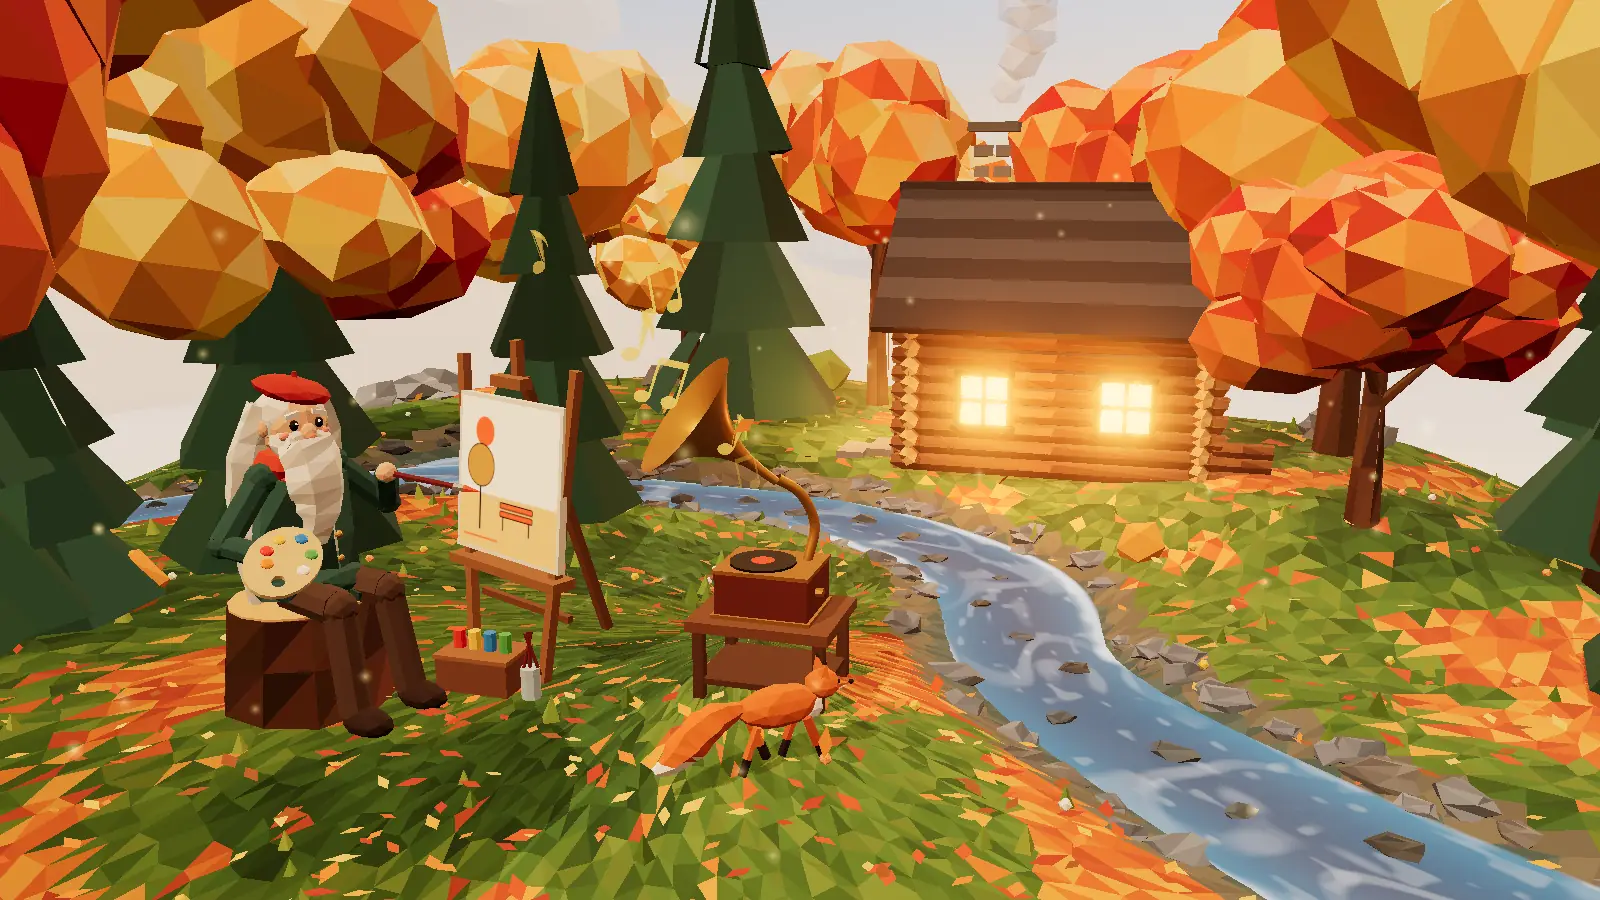
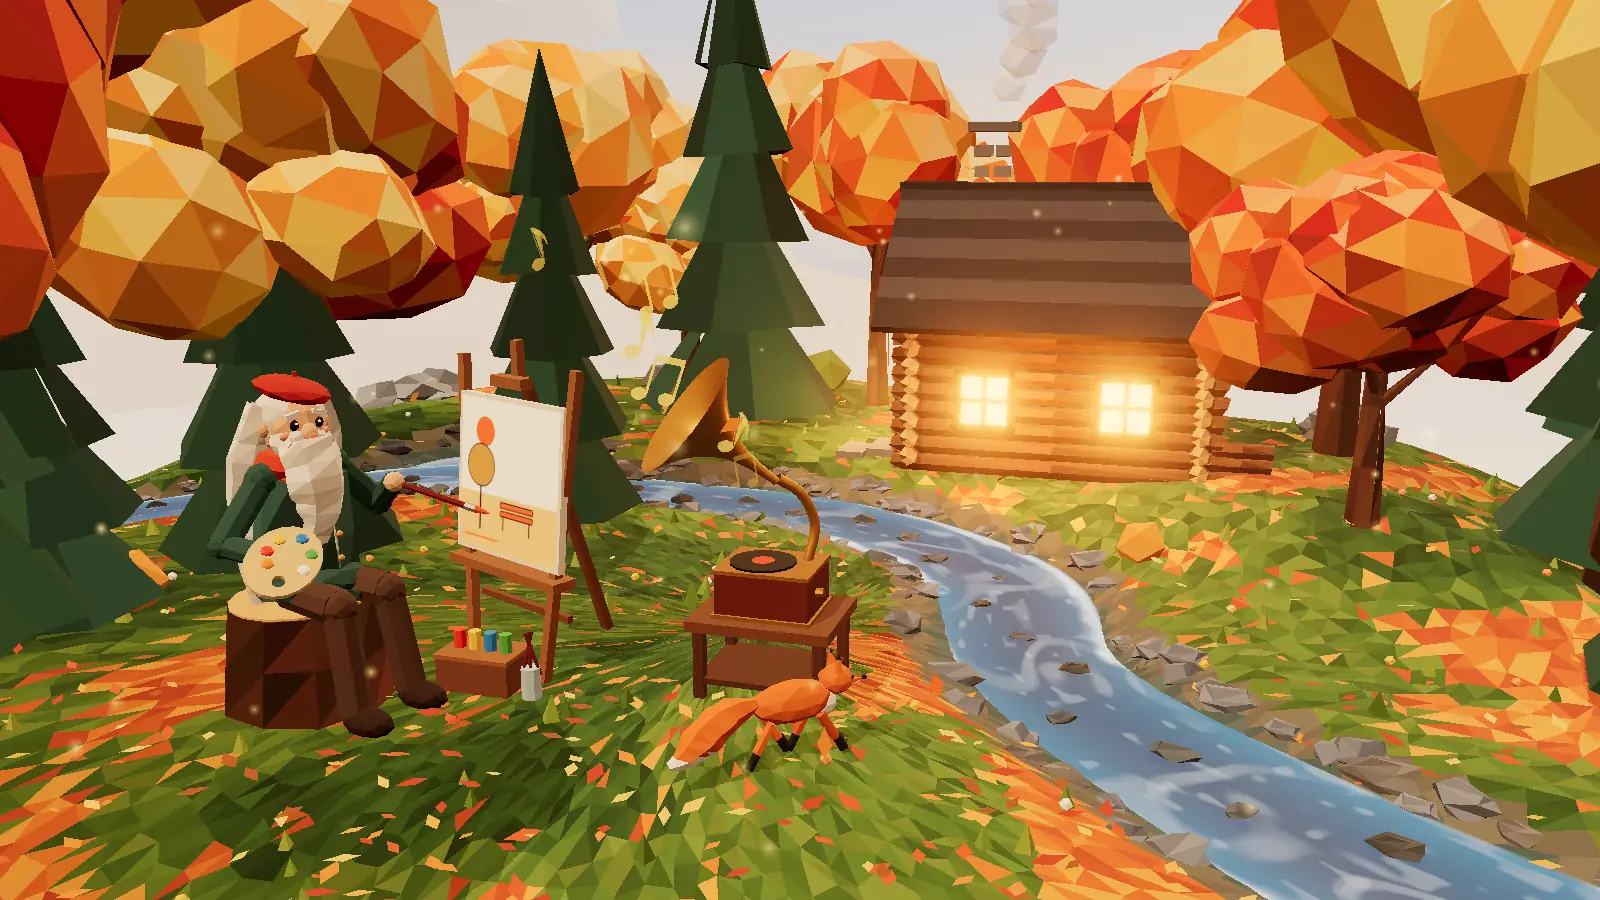
Dream: lower resting brush arm, phone zoom control under the header, re-rendered posters

diff --git a/components/dream/characters.tsx b/components/dream/characters.tsx
@@ -76,7 +76,7 @@ export function Painter({ working, canvasWorld, canvasRight, canvasUp, canvasNor
     const ax = Math.sin(stroke) * 0.3 + Math.sin(t * 0.37) * 0.12, ay = Math.sin(t * 0.61) * 0.22 + Math.sin(stroke * 2) * 0.04;
     const paintPt = V().copy(canvasWorld).addScaledVector(canvasRight, ax).addScaledVector(canvasUp, ay).addScaledVector(canvasNormal, 0.02 + lift);
     // at rest the brush hand sits on his knee, brush tip pointing up and out
-    const rest = V(0.42 + Math.sin(t * 0.5) * 0.02, 1.25, 0.95);
+    const rest = V(0.55 + Math.sin(t * 0.5) * 0.02, 1.08, 0.9);
     g.updateWorldMatrix(true, false); const tip = rest.lerp(g.worldToLocal(paintPt), w);
     // hand sits 0.5 back from the brush tip, along the line from the shoulder
     tmp.dir.subVectors(tip, SH_B).normalize(); const handP = V().copy(tip).addScaledVector(tmp.dir, -0.6);

diff --git a/app/fox.css b/app/fox.css
@@ -211,4 +211,4 @@
 .fx-zoom span{font:800 12px var(--f-nunito);letter-spacing:.08em;text-transform:uppercase;color:var(--muted);min-width:52px;text-align:center}
 @keyframes fxFade{from{opacity:0}}
 .fx-clean .fx-zoom,.fx-og .fx-zoom{display:none}
-@media (max-width:820px){.fx-zoom{bottom:auto;top:calc(72svh - 58px);left:auto;right:12px;transform:none}}
+@media (max-width:820px){.fx-zoom{bottom:auto;top:84px;left:auto;right:12px;transform:none}}
